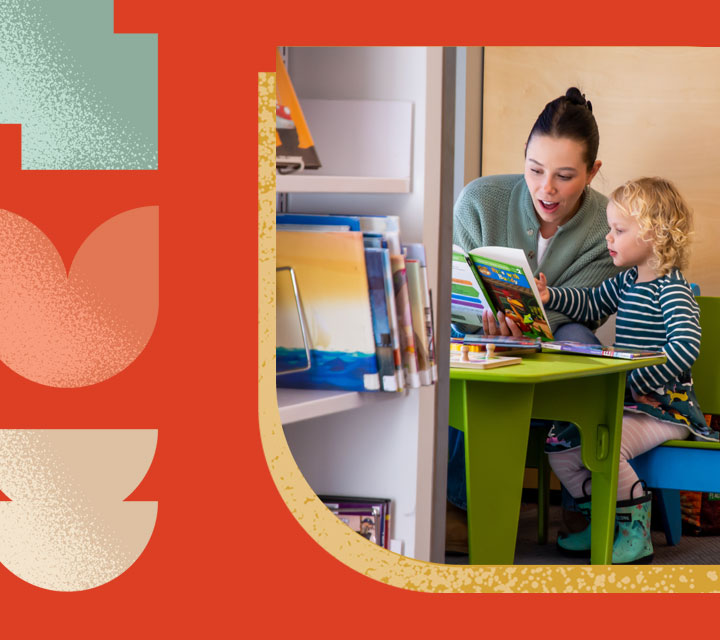
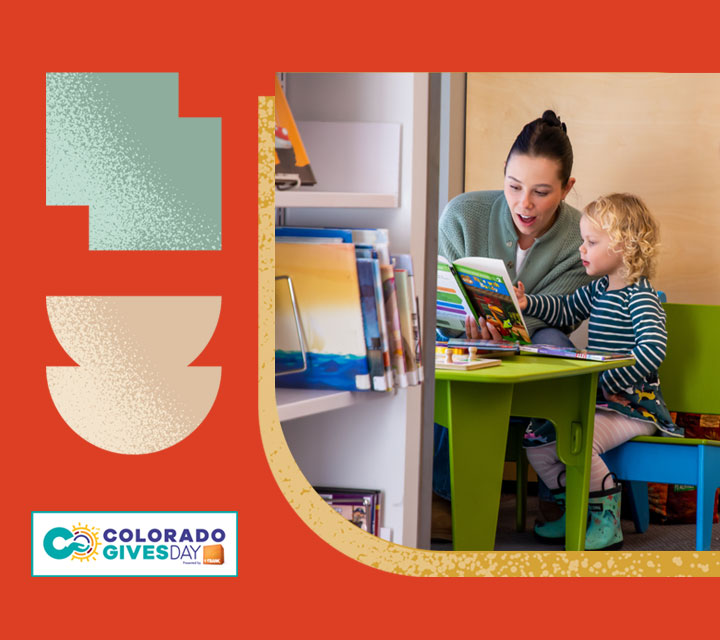
finishing up

diff --git a/new.html b/new.html
@@ -219,14 +219,14 @@ j=d.createElement(s),dl=l!='dataLayer'?'&l='+l:'';j.async=true;j.src=
     display: flex;
     flex-direction: column;
     justify-content: center;
-    background: #5CE0C2 url("holly-left.png") right center no-repeat;
+    background: #5CE0C2 url("holly-bottom.png") top center no-repeat;
     font-family: "Source Sans Pro", Calibri, Candara, Arial, sans-serif;
     color: #000;
     font-size: 20px;
-    text-align: right;
-    padding: 20px 220px 20px 60px;
-    width: 720px;
+    padding: 135px 20px;
+    width: 100%;
     font-weight: 400;
+    text-align: center;
 }
 .feedback-content h1 {
     color: #000;
@@ -242,37 +242,6 @@ j=d.createElement(s),dl=l!='dataLayer'?'&l='+l:'';j.async=true;j.src=
 .feedback-content a:hover {
     text-decoration: underline;
     color: rgba(0,0,0,.9);
-}
-.giving-content {
-    display: flex;
-    flex-direction: column;
-    justify-content: center;
-    background: #000 url("holly-right.png") left center no-repeat;
-    font-family: "Source Sans Pro", Calibri, Candara, Arial, sans-serif;
-    color: #fff;
-    font-size: 20px;
-    text-align: left;
-    padding: 20px 60px 20px 220px;
-    width: 720px;
-    font-weight: 400;
-}
-.giving-content h1 {
-    color: #fff;
-    font-size: 38px;
-    font-weight: 700;
-    margin: 0 0 10px 0;
-    line-height: 1;
-}
-.giving-content a {
-    text-decoration: underline;
-    color: #fff;
-}
-.giving-content a:hover {
-    text-decoration: underline;
-    color: rgba(255,255,255,.8);
-}
-.feedback-content, .giving-content {
-    min-height: 640px;
 }
 .small-text {
     font-size: 18px;
@@ -314,33 +283,21 @@ j=d.createElement(s),dl=l!='dataLayer'?'&l='+l:'';j.async=true;j.src=
     text-transform: uppercase;
 }
 
-@media (max-width: 1440px) {
-.feedback-content, .giving-content {
-    min-height: 35vh;
-}
-}
-
 @media (max-width: 1080px) {
-.snow-content h1, .booked-content h1 {
+.snow-content h1, .booked-content h1, .cgd-content h1 {
     font-size: 48px;
 }
-.snow-content h3, .booked-content h3 {
+.snow-content h3, .booked-content h3, .cgd-content h3 {
     font-size: 22px;
-}
-.feedback-content {
-    padding: 20px 220px 20px 40px;
-}
-.giving-content {
-    padding: 20px 40px 20px 220px;
 }
 }
 
 @media (max-width: 950px) {
-.snow-row, .booked-row, .more-content-row {
+.snow-row, .booked-row, .cgd-row, .more-content-row {
     flex-direction: column;
     max-width: 720px;
 }
-.snow-content, .booked-content {
+.snow-content, .booked-content, .cgd-content {
     padding: 50px 30px 60px;
     text-align: center;
 }
@@ -350,26 +307,11 @@ j=d.createElement(s),dl=l!='dataLayer'?'&l='+l:'';j.async=true;j.src=
 .booked-image {
     order: 1;
 }
-.giving-content {
-    display: flex;
-    background: #000 url("holly-bottom.png") top center no-repeat;
-    padding: 150px 15px 140px;
-    text-align: center;
-    min-height: auto;
+.cgd-content {
+    order: 2;
 }
-.feedback-content {
-    display: flex;
-    background: #5CE0C2 url("holly-top.png") bottom center no-repeat;
-    padding: 140px 15px 160px;
-    text-align: center;
-    min-height: auto;
-    margin-bottom: 30px;
-}
-}
-
-@media (max-width: 720px) {
-.feedback-content, .giving-content {
-    width: 100%;
+.cgd-image {
+    order: 1;
 }
 }
 </style>
@@ -546,11 +488,7 @@ height="0" width="0" style="display:none;visibility:hidden"></iframe>
   </div>
   <!-- InstanceBeginEditable name="Content" -->
   <div class="row background-row">
-	  
-	  
-	  
-	    <div class="cgd-row">
-      
+    <div class="cgd-row">
       <div class="cgd-content">
         <h1>The Giving Season</h1>
         <div>Please support the DCL Foundation with a Colorado Gives Day donation now through December&nbsp;5.</div>
@@ -562,13 +500,11 @@ height="0" width="0" style="display:none;visibility:hidden"></iframe>
               <div>Goal $70,000</div>
             </div>
           </div>
-        </div><div class="margin-bottom-15"><a href="donate/">Donate&nbsp;Today</a></div>
-      </div><div class="cgd-image"><img class="img-responsive" src="cgd-image.jpg" alt="Colorado Gives Day"></div>
-    </div>  
-	  
-	  
-	  
-	  
+        </div>
+        <div class="margin-bottom-15"><a href="donate/">Donate&nbsp;Today</a></div>
+      </div>
+      <div class="cgd-image"><img class="img-responsive" src="cgd-image.jpg" alt="Colorado Gives Day"></div>
+    </div>
     <div class="snow-row">
       <div class="snow-image"><img class="img-responsive" src="snowball-animation.gif" alt="The Snow Ball"></div>
       <div class="snow-content">
@@ -588,24 +524,10 @@ height="0" width="0" style="display:none;visibility:hidden"></iframe>
       </div>
       <div class="booked-image"><img class="img-responsive" src="booked.jpg" alt="Booked for the Holidays"></div>
     </div>
-
     <div class="more-content-row">
       <div class="feedback-content">
         <h1>We Need Your Input!</h1>
         <div>Take our <a href="feedback/">short survey</a> to weigh in on DCL policies.</div>
-      </div>
-      <div class="giving-content">
-        <h1>The Giving Season</h1>
-        <div>Please support the DCL Foundation with a <a href="donate/">Colorado Gives Day donation</a> now through December&nbsp;5.</div>
-        <div class="progress-bar-wrapper">
-          <div class="custom-progress-bar">
-            <div class="animated-progress progress-blue"> <span data-progress="5"></span> </div>
-            <div class="progress-percentage">
-              <div>Complete 5%</div>
-              <div>Goal $70,000</div>
-            </div>
-          </div>
-        </div>
       </div>
     </div>
   </div>
